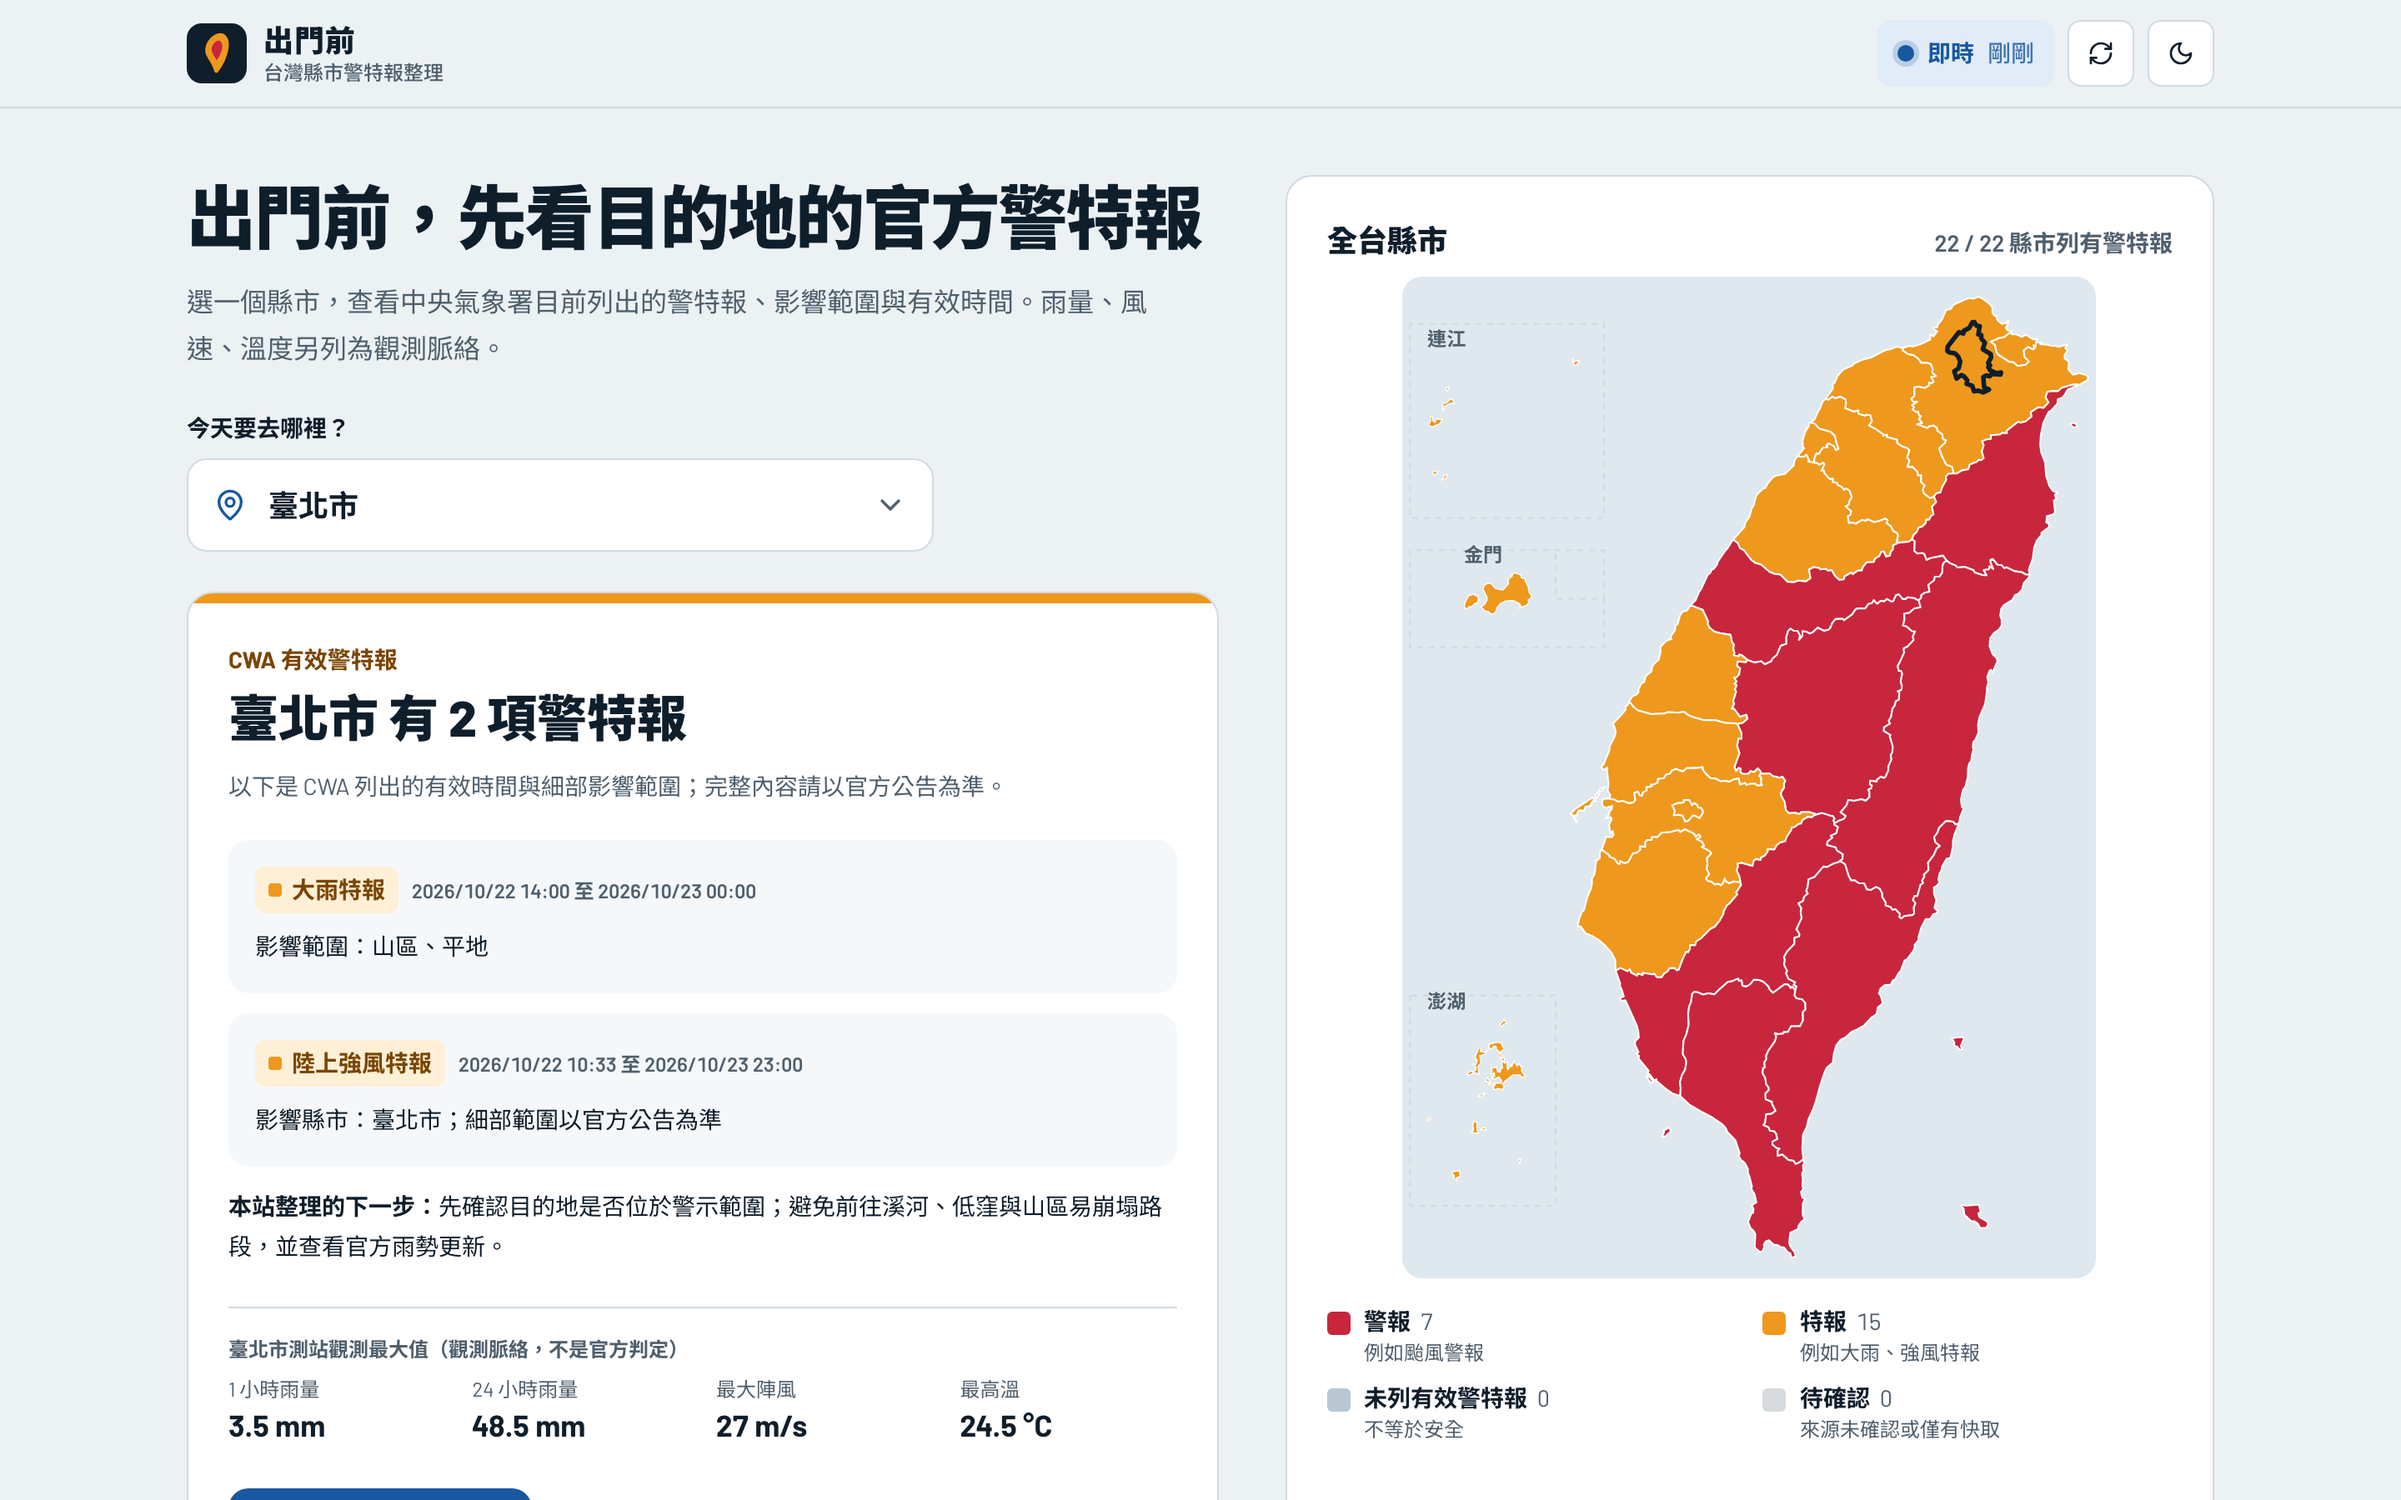
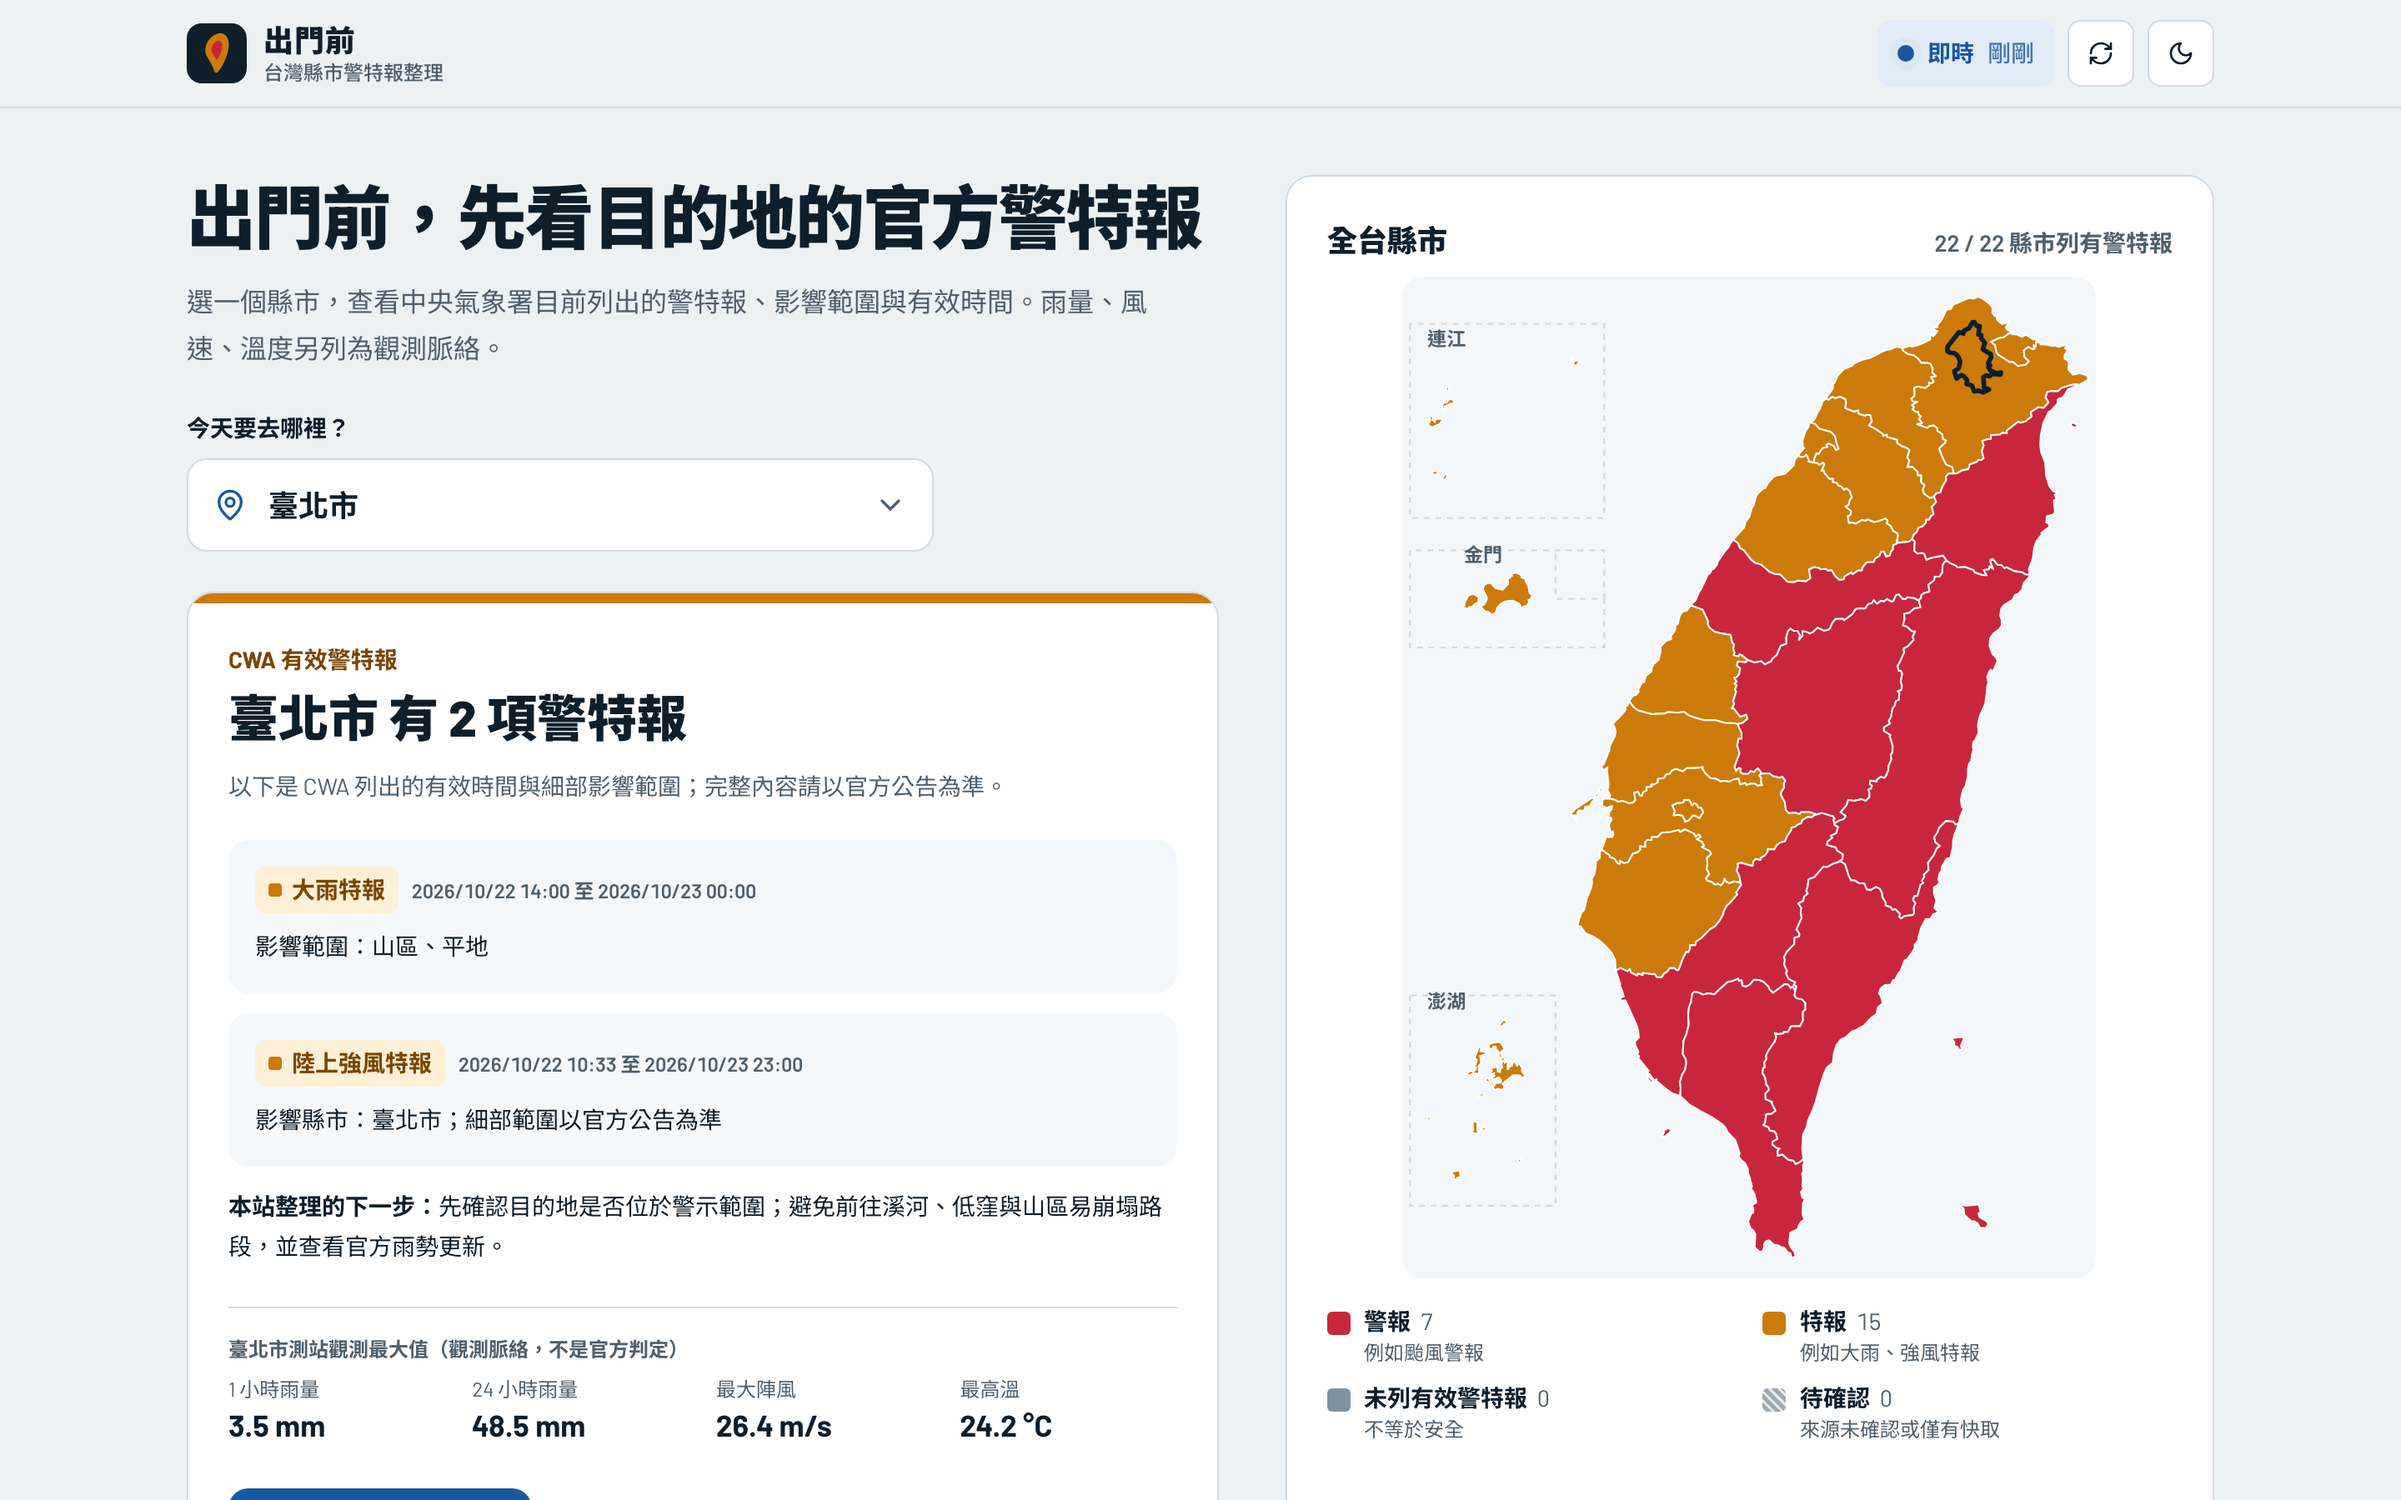
fix: expire warning trust after 90 minutes and raise map contrast
Address independent review findings:
- Fail closed once the last live/cache confirmation passes the 90-minute
  trust window, even while the page stays open.
- Show 更新中 in the freshness pill during refresh.
- Count distinct counties in warning group headings.
- Raise map fills to >= 3:1 against the map background; hatch the
  待確認 legend swatch.

diff --git a/src/App.tsx b/src/App.tsx
@@ -40,6 +40,7 @@ import {
   sourceSummary,
   warningTone,
   warningViewState,
+  warningViewStateAt,
   type MapCountyStatus,
   type Tone,
   type WarningViewState,
@@ -83,6 +84,11 @@ const TONE_CHIP: Record<Tone, string> = {
   calm: "bg-raised text-calm-ink",
   unknown: "bg-raised text-unknown-ink",
   accent: "bg-accent-soft text-accent",
+};
+
+// Mirrors the map's hatch so "待確認" is distinguishable without relying on colour.
+const HATCH_STYLE = {
+  backgroundImage: "repeating-linear-gradient(45deg, rgb(var(--surface) / 0.75) 0 1.5px, transparent 1.5px 4px)",
 };
 
 const MAP_LEGEND: Array<{ status: MapCountyStatus; label: string; hint: string }> = [
@@ -167,7 +173,7 @@ export function App() {
   }, []);
 
   const snapshot = state.data?.snapshot ?? null;
-  const viewState = warningViewState(state.data);
+  const viewState = warningViewStateAt(state.data, now);
   const selectedCounty = snapshot?.counties.find((county) => county.countyName === selectedCountyName) ?? null;
   const isLoading = state.status === "loading";
 
@@ -199,6 +205,7 @@ export function App() {
 
       <SiteHeader
         result={state.data}
+        viewState={viewState}
         isLoading={isLoading}
         now={now}
         onRefresh={() => void load()}
@@ -215,6 +222,7 @@ export function App() {
         >
           <DestinationPanel
             state={state}
+            viewState={viewState}
             result={state.data}
             selectedCounty={selectedCounty}
             selectedCountyName={selectedCountyName}
@@ -237,7 +245,7 @@ export function App() {
             <FatalState error={state.error} sources={state.data?.sources ?? []} onRetry={() => void load()} />
           ) : snapshot ? (
             <>
-              <StateBanner result={state.data} isRefreshing={isLoading} />
+              <StateBanner result={state.data} viewState={viewState} isRefreshing={isLoading} />
               <WarningSection
                 warnings={snapshot.counties.flatMap((county) => county.warnings)}
                 warningState={viewState}
@@ -264,6 +272,7 @@ export function App() {
 
 function SiteHeader({
   result,
+  viewState,
   isLoading,
   now,
   onRefresh,
@@ -271,6 +280,7 @@ function SiteHeader({
   onToggleTheme,
 }: {
   result: RiskDashboardLoadResult | null;
+  viewState: WarningViewState;
   isLoading: boolean;
   now: number;
   onRefresh: () => void;
@@ -288,7 +298,7 @@ function SiteHeader({
           </span>
         </a>
         <div className="flex items-center gap-2">
-          <FreshnessPill result={result} isLoading={isLoading} now={now} />
+          <FreshnessPill result={result} viewState={viewState} isLoading={isLoading} now={now} />
           <button
             type="button"
             onClick={onRefresh}
@@ -322,8 +332,17 @@ function BrandMark() {
   );
 }
 
-function FreshnessPill({ result, isLoading, now }: { result: RiskDashboardLoadResult | null; isLoading: boolean; now: number }) {
-  const viewState = warningViewState(result);
+function FreshnessPill({
+  result,
+  viewState,
+  isLoading,
+  now,
+}: {
+  result: RiskDashboardLoadResult | null;
+  viewState: WarningViewState;
+  isLoading: boolean;
+  now: number;
+}) {
   if (!result) {
     return (
       <span className="inline-flex h-10 items-center gap-2 rounded-lg border border-line bg-surface px-3 text-sm font-semibold text-muted">
@@ -333,11 +352,23 @@ function FreshnessPill({ result, isLoading, now }: { result: RiskDashboardLoadRe
     );
   }
 
-  const confirmedAt = viewState === "cached" ? result.warnings.cacheGeneratedAt : result.warnings.fetchedAt;
+  const sourceState = warningViewState(result);
+  const confirmedAt = sourceState === "cached" ? result.warnings.cacheGeneratedAt : result.warnings.fetchedAt;
   const age = minutesSince(confirmedAt, now);
+  const expired = viewState === "unavailable" && sourceState !== "unavailable";
   const aging = viewState === "current" && age !== null && age >= REFRESH_SUGGESTED_AFTER_MINUTES;
-  const tone: Tone = viewState === "unavailable" ? "alarm" : viewState === "cached" || aging ? "advisory" : "accent";
-  const label = viewState === "unavailable" ? "無法確認" : viewState === "cached" ? "快取" : aging ? "建議更新" : "即時";
+  const tone: Tone = isLoading ? "unknown" : viewState === "unavailable" ? "alarm" : viewState === "cached" || aging ? "advisory" : "accent";
+  const label = isLoading
+    ? "更新中"
+    : expired
+      ? "已過期"
+      : viewState === "unavailable"
+        ? "無法確認"
+        : viewState === "cached"
+          ? "快取"
+          : aging
+            ? "建議更新"
+            : "即時";
   const title =
     viewState === "unavailable"
       ? "警特報來源無法確認"
@@ -360,18 +391,19 @@ function FreshnessPill({ result, isLoading, now }: { result: RiskDashboardLoadRe
 
 function DestinationPanel({
   state,
+  viewState,
   result,
   selectedCounty,
   selectedCountyName,
   onSelectCounty,
 }: {
   state: LoadState;
+  viewState: WarningViewState;
   result: RiskDashboardLoadResult | null;
   selectedCounty: CountyRisk | null;
   selectedCountyName: string;
   onSelectCounty: (countyName: string) => void;
 }) {
-  const viewState = warningViewState(result);
   const presentation =
     state.status === "loading" && !result
       ? {
@@ -576,7 +608,11 @@ function MapPanel({
       <ul className="mt-4 grid grid-cols-2 gap-x-4 gap-y-2.5" aria-label="地圖圖例">
         {counts.map((item) => (
           <li key={item.status} className="flex items-start gap-2">
-            <span className={`mt-1 h-3.5 w-3.5 shrink-0 rounded-[3px] ${TONE_BAR[item.status]}`} aria-hidden="true" />
+            <span
+              className={`mt-1 h-3.5 w-3.5 shrink-0 rounded-[3px] ${TONE_BAR[item.status]}`}
+              style={item.status === "unknown" ? HATCH_STYLE : undefined}
+              aria-hidden="true"
+            />
             <span className="min-w-0 text-sm leading-5">
               <span className="font-bold">{item.label}</span>
               {snapshot ? <span className="tabular ml-1.5 text-muted">{item.count}</span> : null}
@@ -646,10 +682,17 @@ function EmptyState({ onRetry }: { onRetry: () => void }) {
   );
 }
 
-function StateBanner({ result, isRefreshing }: { result: RiskDashboardLoadResult | null; isRefreshing: boolean }) {
+function StateBanner({
+  result,
+  viewState,
+  isRefreshing,
+}: {
+  result: RiskDashboardLoadResult | null;
+  viewState: WarningViewState;
+  isRefreshing: boolean;
+}) {
   if (!result) return null;
 
-  const viewState = warningViewState(result);
   const failedSources = result.sources.filter((source) => source.status === "error").length;
   const staleSources = result.sources.filter((source) => source.stale).length;
 
@@ -746,7 +789,7 @@ function WarningSection({
 }
 
 function WarningGroupCard({ group, selectedCountyName }: { group: WarningGroup; selectedCountyName: string }) {
-  const counties = group.warnings.map((warning) => warning.countyName);
+  const counties = [...new Set(group.warnings.map((warning) => warning.countyName))];
   // Collapsed: two counties on phones, four on wider screens.
   const [expanded, setExpanded] = useState(group.warnings.length <= 2);
   const ordered = [...group.warnings].sort(

diff --git a/src/__tests__/App.test.tsx b/src/__tests__/App.test.tsx
@@ -163,11 +163,42 @@ function deferred<T>() {
 describe("App trust-first warning contract", () => {
   beforeEach(() => {
     vi.clearAllMocks();
+    // Fixtures were fetched at 00:30 Taipei time; pin "now" a few minutes later
+    // so the UI's 90-minute trust window treats them as fresh.
+    vi.useFakeTimers({ toFake: ["Date"] });
+    vi.setSystemTime(new Date("2026-05-30T00:35:00+08:00"));
     window.history.replaceState(null, "", "/");
   });
 
   afterEach(() => {
     cleanup();
+    vi.useRealTimers();
+  });
+
+  it("fails closed when the last live confirmation is older than the trust window", async () => {
+    vi.setSystemTime(new Date("2026-05-30T02:05:00+08:00"));
+    window.history.replaceState(null, "", "/?county=臺北市");
+    arrangeResult(makeCurrentResult());
+
+    render(<App />);
+
+    expect(await screen.findByRole("heading", { name: "無法確認 臺北市 現況" })).toBeInTheDocument();
+    expect(screen.getByText(/警特報狀態待確認/)).toBeInTheDocument();
+    expect(screen.queryByRole("heading", { name: "臺北市 未列有效縣市警特報" })).not.toBeInTheDocument();
+  });
+
+  it("counts distinct counties when one county has two warnings of the same kind", async () => {
+    const base = { countyName: "臺北市", geocode: "63", phenomena: "大雨", significance: "特報", affectedAreas: ["山區"] };
+    arrangeResult(
+      makeCurrentResult([
+        { ...base, startTime: "2026-05-30T00:00:00+08:00", endTime: "2026-05-30T02:00:00+08:00" },
+        { ...base, startTime: "2026-05-30T00:20:00+08:00", endTime: "2026-05-30T03:00:00+08:00" },
+      ]),
+    );
+
+    render(<App />);
+
+    expect(await screen.findByText("1 個縣市：臺北市")).toBeInTheDocument();
   });
 
   it("provides a keyboard skip link to the destination warning check", () => {

diff --git a/src/index.css b/src/index.css
@@ -10,7 +10,8 @@
  *   advisory — CWA significance 「特報」 (e.g. 大雨、強風特報)
  *   calm     — current data lists no valid warning; deliberately NOT green,
  *              because 未列警特報 is not a safety verdict
- *   unknown  — source unavailable or not yet confirmed
+ *   unknown  — source unavailable or not yet confirmed; always hatched
+ * Map fills keep >= 3:1 contrast against --sea (unknown relies on its hatch).
  */
 :root {
   color-scheme: light;
@@ -26,14 +27,14 @@
   --alarm: 200 38 61;
   --alarm-ink: 158 22 44;
   --alarm-soft: 252 230 233;
-  --advisory: 238 152 30;
+  --advisory: 204 122 10;
   --advisory-ink: 122 69 0;
   --advisory-soft: 254 240 214;
-  --calm: 184 199 210;
+  --calm: 125 146 161;
   --calm-ink: 52 69 84;
-  --unknown: 214 219 223;
+  --unknown: 157 169 178;
   --unknown-ink: 84 94 102;
-  --sea: 222 232 238;
+  --sea: 244 247 249;
 }
 
 :root.dark {
@@ -53,11 +54,11 @@
   --advisory: 242 176 70;
   --advisory-ink: 248 202 120;
   --advisory-soft: 60 44 18;
-  --calm: 52 74 92;
+  --calm: 91 117 133;
   --calm-ink: 186 202 214;
-  --unknown: 46 56 64;
+  --unknown: 94 107 117;
   --unknown-ink: 170 180 188;
-  --sea: 15 30 42;
+  --sea: 12 24 34;
 }
 
 * {

diff --git a/src/lib/presentation.ts b/src/lib/presentation.ts
@@ -20,6 +20,21 @@ export function warningViewState(result: RiskDashboardLoadResult | null): Warnin
   return "unavailable";
 }
 
+/** Matches the static cache budget in cwaClient: older warning data is not trusted. */
+export const WARNING_TRUST_WINDOW_MINUTES = 90;
+
+/**
+ * Like warningViewState, but also expires trust as the page stays open: once the
+ * last confirmation is older than the trust window, the page fails closed.
+ */
+export function warningViewStateAt(result: RiskDashboardLoadResult | null, now: number): WarningViewState {
+  const base = warningViewState(result);
+  if (!result || base === "unavailable") return "unavailable";
+  const confirmedAt = base === "cached" ? result.warnings.cacheGeneratedAt : result.warnings.fetchedAt;
+  const age = minutesSince(confirmedAt, now);
+  return age === null || age > WARNING_TRUST_WINDOW_MINUTES ? "unavailable" : base;
+}
+
 /** CWA's own significance word decides the tone; this is not a site risk score. */
 export function warningTone(warning: WeatherWarning): "alarm" | "advisory" {
   return warning.significance.includes("警報") ? "alarm" : "advisory";
